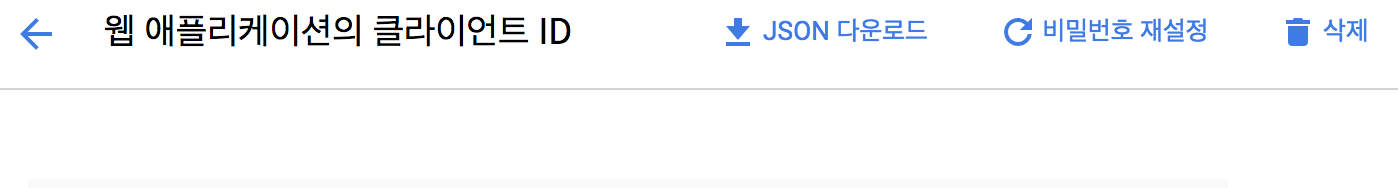
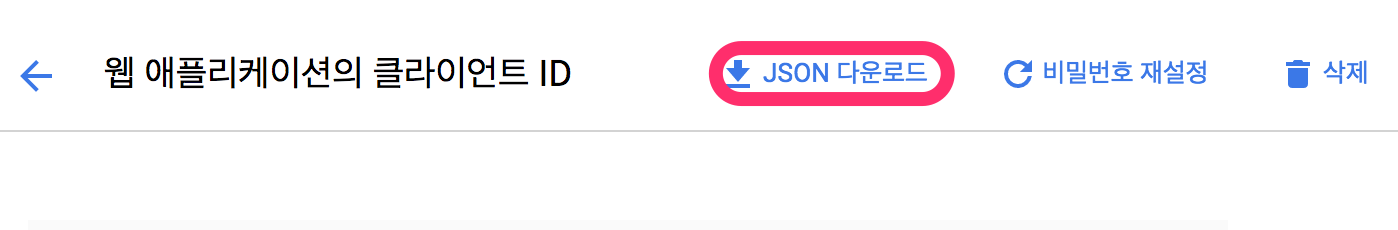
firebase-login 설정 캡쳐 추가

diff --git a/README.md b/README.md
@@ -296,6 +296,9 @@ export default {firebaseApp, db, auth, provider}
 
 ![websetting](images/web-setting.png)
 
+- firebase의 Authentication의 로그인 방법 중 google 로그인을 활성화 한다.
+![loginsetting](images/firebase-login.png)
+
 ## 로그인/로그아웃 추가
 > 1) layouts/default.vue 소스에서 data에 user추가하고 items을 비워줍니다.
 ``` javascript
